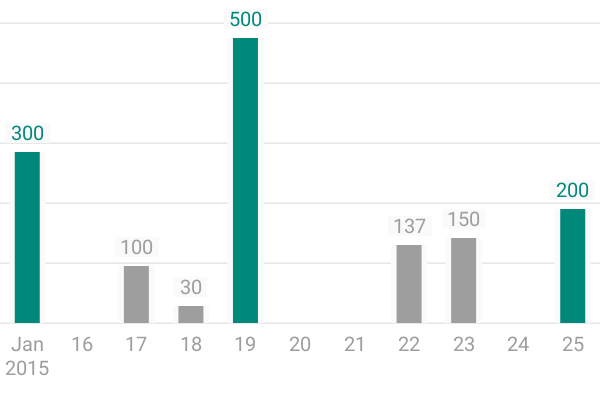
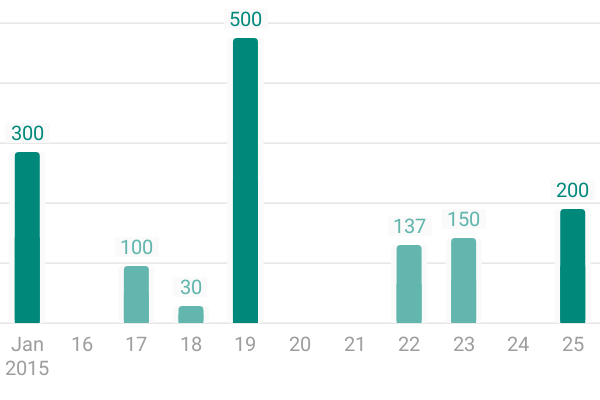
Fix colors in BarChart and HistoryChard

diff --git a/android/uhabits-android/src/main/java/org/isoron/uhabits/activities/habits/list/views/HabitCardListView.kt b/android/uhabits-android/src/main/java/org/isoron/uhabits/activities/habits/list/views/HabitCardListView.kt
@@ -79,7 +79,7 @@ class HabitCardListView(
         cardView.dataOffset = dataOffset
         cardView.score = score
         cardView.unit = habit.unit
-        cardView.threshold = habit.targetValue
+        cardView.threshold = habit.targetValue / habit.frequency.denominator
 
         val detector = GestureDetector(context, CardViewGestureDetector(holder))
         cardView.setOnTouchListener { _, ev ->

diff --git a/android/uhabits-android/src/main/java/org/isoron/uhabits/widgets/HistoryWidget.kt b/android/uhabits-android/src/main/java/org/isoron/uhabits/widgets/HistoryWidget.kt
@@ -46,6 +46,8 @@ class HistoryWidget(
             setFirstWeekday(firstWeekday)
             setColor(PaletteUtils.getColor(context, habit.color))
             setCheckmarks(habit.checkmarks.allValues)
+            setNumerical(habit.isNumerical)
+            setTarget(habit.targetValue / habit.frequency.denominator)
         }
     }
 

diff --git a/android/uhabits-android/src/main/java/org/isoron/uhabits/activities/common/views/HistoryChart.java b/android/uhabits-android/src/main/java/org/isoron/uhabits/activities/common/views/HistoryChart.java
@@ -44,7 +44,7 @@ public class HistoryChart extends ScrollableChart
 {
     private int[] checkmarks;
 
-    private int target;
+    private double target;
 
     private Paint pSquareBg, pSquareFg, pTextHeader;
 
@@ -202,6 +202,7 @@ public class HistoryChart extends ScrollableChart
     public void setNumerical(boolean numerical)
     {
         isNumerical = numerical;
+        postInvalidate();
     }
 
     public void setIsBackgroundTransparent(boolean isBackgroundTransparent)
@@ -215,7 +216,7 @@ public class HistoryChart extends ScrollableChart
         this.isEditable = isEditable;
     }
 
-    public void setTarget(int target)
+    public void setTarget(double target)
     {
         this.target = target;
         postInvalidate();
@@ -385,14 +386,14 @@ public class HistoryChart extends ScrollableChart
                 pSquareBg.setColor(colors[0]);
                 pSquareFg.setColor(textColors[1]);
             }
-            else if ((isNumerical && checkmark < target) || checkmark != YES_MANUAL)
+            else if ((isNumerical && (checkmark / 1000f >= target) || (!isNumerical && checkmark == YES_MANUAL)))
             {
-                pSquareBg.setColor(colors[1]);
+                pSquareBg.setColor(colors[2]);
                 pSquareFg.setColor(textColors[2]);
             }
             else
             {
-                pSquareBg.setColor(colors[2]);
+                pSquareBg.setColor(colors[1]);
                 pSquareFg.setColor(textColors[2]);
             }
         }

diff --git a/android/uhabits-android/src/main/java/org/isoron/uhabits/activities/common/views/BarChart.java b/android/uhabits-android/src/main/java/org/isoron/uhabits/activities/common/views/BarChart.java
@@ -77,8 +77,6 @@ public class BarChart extends ScrollableChart
     @Nullable
     private List<Checkmark> checkmarks;
 
-    private int primaryColor;
-
     private int bucketSize = 7;
 
     private int backgroundColor;
@@ -98,6 +96,10 @@ public class BarChart extends ScrollableChart
     private double maxValue;
 
     private double target;
+
+    private int primaryColor;
+
+    private int darkerPrimaryColor;
 
     public BarChart(Context context)
     {
@@ -148,7 +150,10 @@ public class BarChart extends ScrollableChart
 
     public void setColor(int primaryColor)
     {
+        StyledResources res = new StyledResources(getContext());
+        int backgroundColor = res.getColor(R.attr.cardBgColor);
         this.primaryColor = primaryColor;
+        this.darkerPrimaryColor = ColorUtils.mixColors(primaryColor, backgroundColor, 0.6f);
         postInvalidate();
     }
 
@@ -271,7 +276,7 @@ public class BarChart extends ScrollableChart
         float margin = baseSize * 0.225f;
         float round = dpToPixels(getContext(), 2);
 
-        int color = textColor;
+        int color = darkerPrimaryColor;
         if (value / 1000 >= target) color = primaryColor;
 
         rect.inset(-margin, 0);
@@ -364,7 +369,7 @@ public class BarChart extends ScrollableChart
     {
         if (value == 0) return;
 
-        int activeColor = textColor;
+        int activeColor = darkerPrimaryColor;
         if (value / 1000 >= target)
             activeColor = primaryColor;
 

diff --git a/android/uhabits-android/src/main/java/org/isoron/uhabits/activities/common/dialogs/HistoryEditorDialog.java b/android/uhabits-android/src/main/java/org/isoron/uhabits/activities/common/dialogs/HistoryEditorDialog.java
@@ -181,6 +181,8 @@ public class HistoryEditorDialog extends AppCompatDialogFragment
             int color = PaletteUtils.getColor(getContext(), habit.getColor());
             historyChart.setColor(color);
             historyChart.setCheckmarks(checkmarks);
+            historyChart.setNumerical(habit.isNumerical());
+            historyChart.setTarget(habit.getTargetValue() / habit.getFrequency().getDenominator());
         }
     }
 }

diff --git a/android/uhabits-android/src/main/java/org/isoron/uhabits/activities/habits/show/views/HistoryCard.java b/android/uhabits-android/src/main/java/org/isoron/uhabits/activities/habits/show/views/HistoryCard.java
@@ -132,8 +132,8 @@ public class HistoryCard extends HabitCard
             chart.setColor(color);
             if(habit.isNumerical())
             {
-                chart.setTarget((int) (habit.getTargetValue() * 1000));
                 chart.setNumerical(true);
+                chart.setTarget(habit.getTargetValue() / habit.getFrequency().getDenominator());
             }
         }
     }

diff --git a/android/uhabits-android/src/main/java/org/isoron/uhabits/activities/habits/show/views/BarCard.java b/android/uhabits-android/src/main/java/org/isoron/uhabits/activities/habits/show/views/BarCard.java
@@ -149,7 +149,7 @@ public class BarCard extends HabitCard
             if (habit.isNumerical())
             {
                 boolSpinner.setVisibility(GONE);
-                chart.setTarget(habit.getTargetValue() * bucketSize);
+                chart.setTarget(habit.getTargetValue() / habit.getFrequency().getDenominator() * bucketSize);
             }
             else
             {
